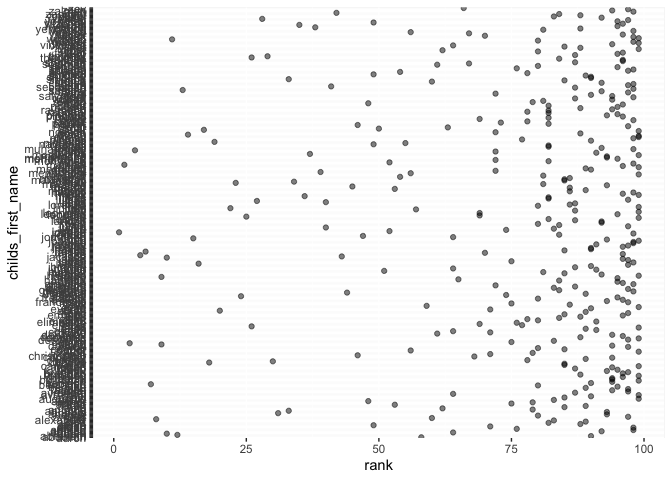
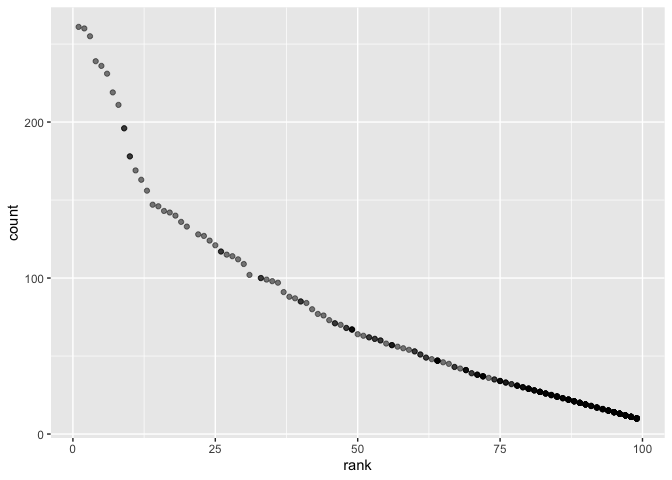
modify the plot

diff --git a/p8105_hw2_yw3772.md b/p8105_hw2_yw3772.md
@@ -328,7 +328,7 @@ male_white_nonhis = filter(babynames_df, year_of_birth == 2016,
                          gender == "male") 
 
 male_white_nonhis %>% 
-  ggplot(aes(x = rank, y = childs_first_name)) + 
+  ggplot(aes(x = rank, y = count)) + 
   geom_point(alpha = .5)
 ```
 
